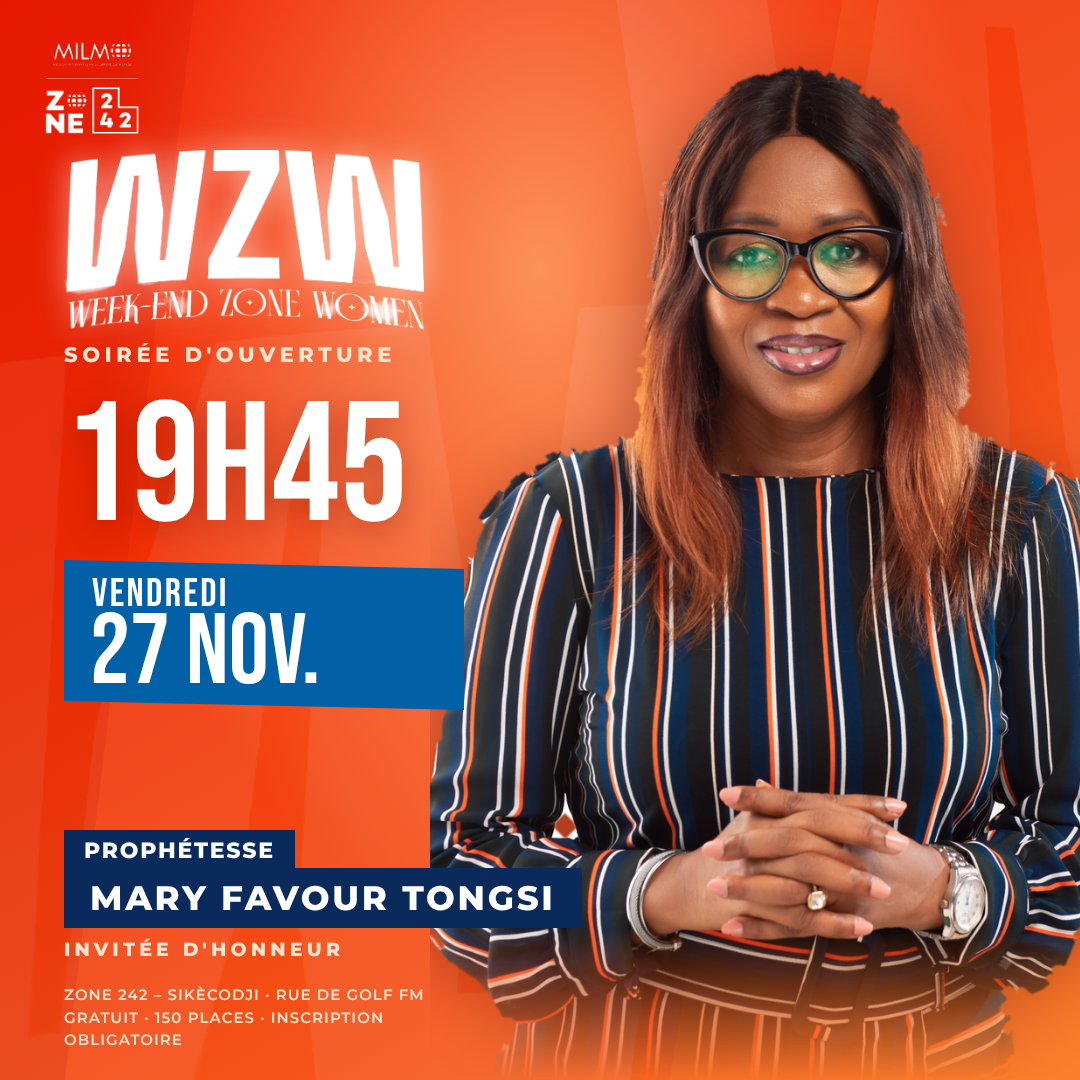
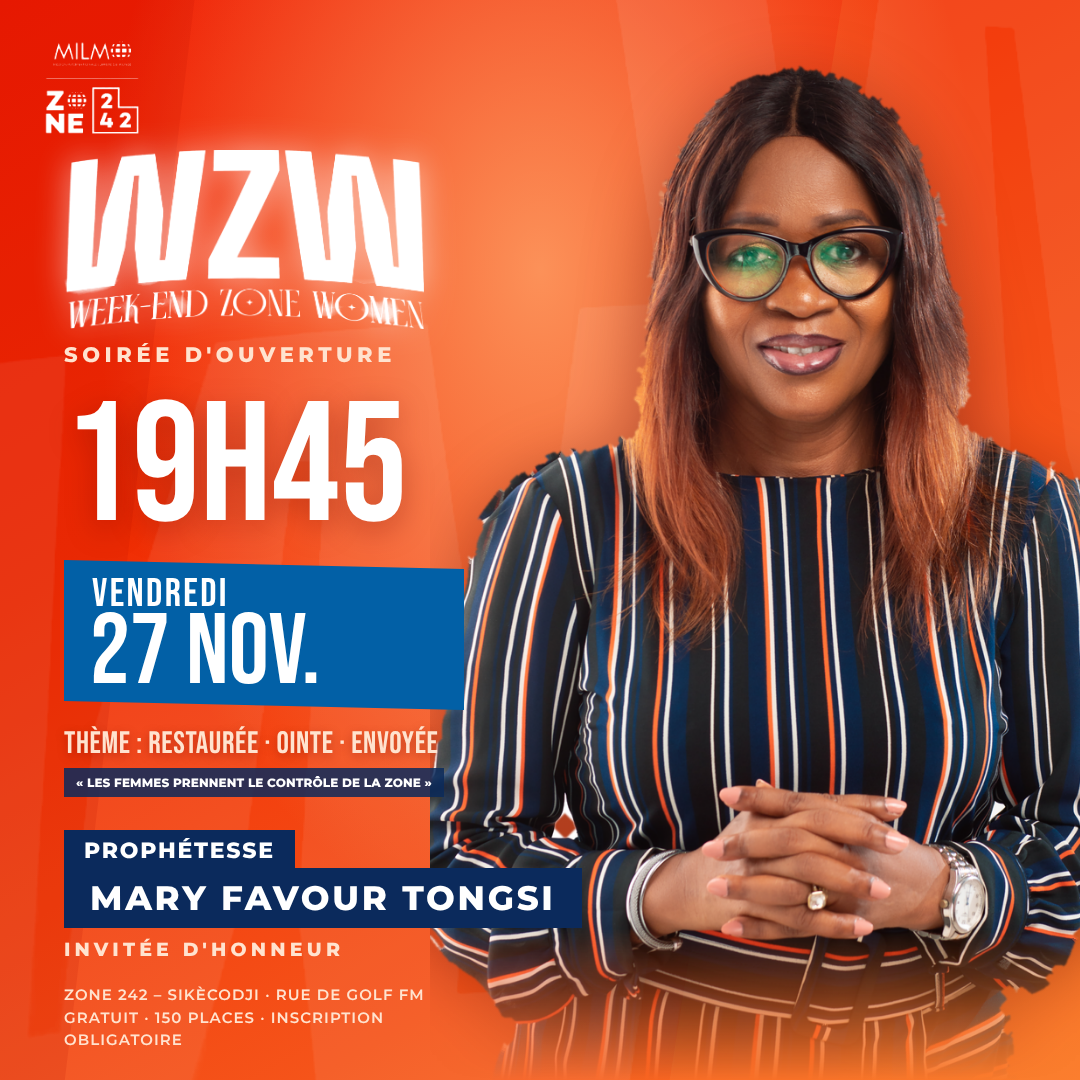
Affiche du vendredi : ajout du thème et du slogan
Claude-Session: https://claude.ai/code/session_01MwjzxB6vNBUzfK55D3M67f

Changed region(s): [[0.0611, 0.6722, 0.4278, 0.7639]]

diff --git a/zone242-com-session/livrables/scripts-sources/affiche_vendredi_variantes.py b/zone242-com-session/livrables/scripts-sources/affiche_vendredi_variantes.py
@@ -42,6 +42,8 @@ V["B"] = BG + LOGOS + f'''
 <div class="a" style="left:92px;top:574px;font-size:40px;line-height:1;letter-spacing:.06em">VENDREDI</div>
 <div class="a" style="left:90px;top:608px;font-size:100px;line-height:.9">27 NOV.</div>
 <div class="a ft" style="left:64px;top:810px;font-size:0px"></div>
+<div class="a" style="left:64px;top:728px;font-size:31px;line-height:1;letter-spacing:.02em;color:#ffe3cf;text-shadow:0 3px 10px rgba(110,10,0,.35)">THÈME : RESTAURÉE · OINTE · ENVOYÉE</div>
+<div class="a" style="left:64px;top:768px;background:rgba(11,42,92,.85);padding:7px 12px;font-family:M;font-weight:800;font-size:12px;letter-spacing:.01em;color:#fff;white-space:nowrap">« LES FEMMES PRENNENT LE CONTRÔLE DE LA ZONE »</div>
 <div class="a" style="left:64px;top:830px"><span class="lab" style="font-size:22px;padding:7px 20px">PROPHÉTESSE</span></div>
 <div class="a" style="left:64px;top:868px"><span class="lab" style="font-size:34px;padding:9px 26px">MARY FAVOUR TONGSI</span></div>
 <div class="a ft" style="left:64px;top:938px;font-size:19px;letter-spacing:.22em">INVITÉE D'HONNEUR</div>
